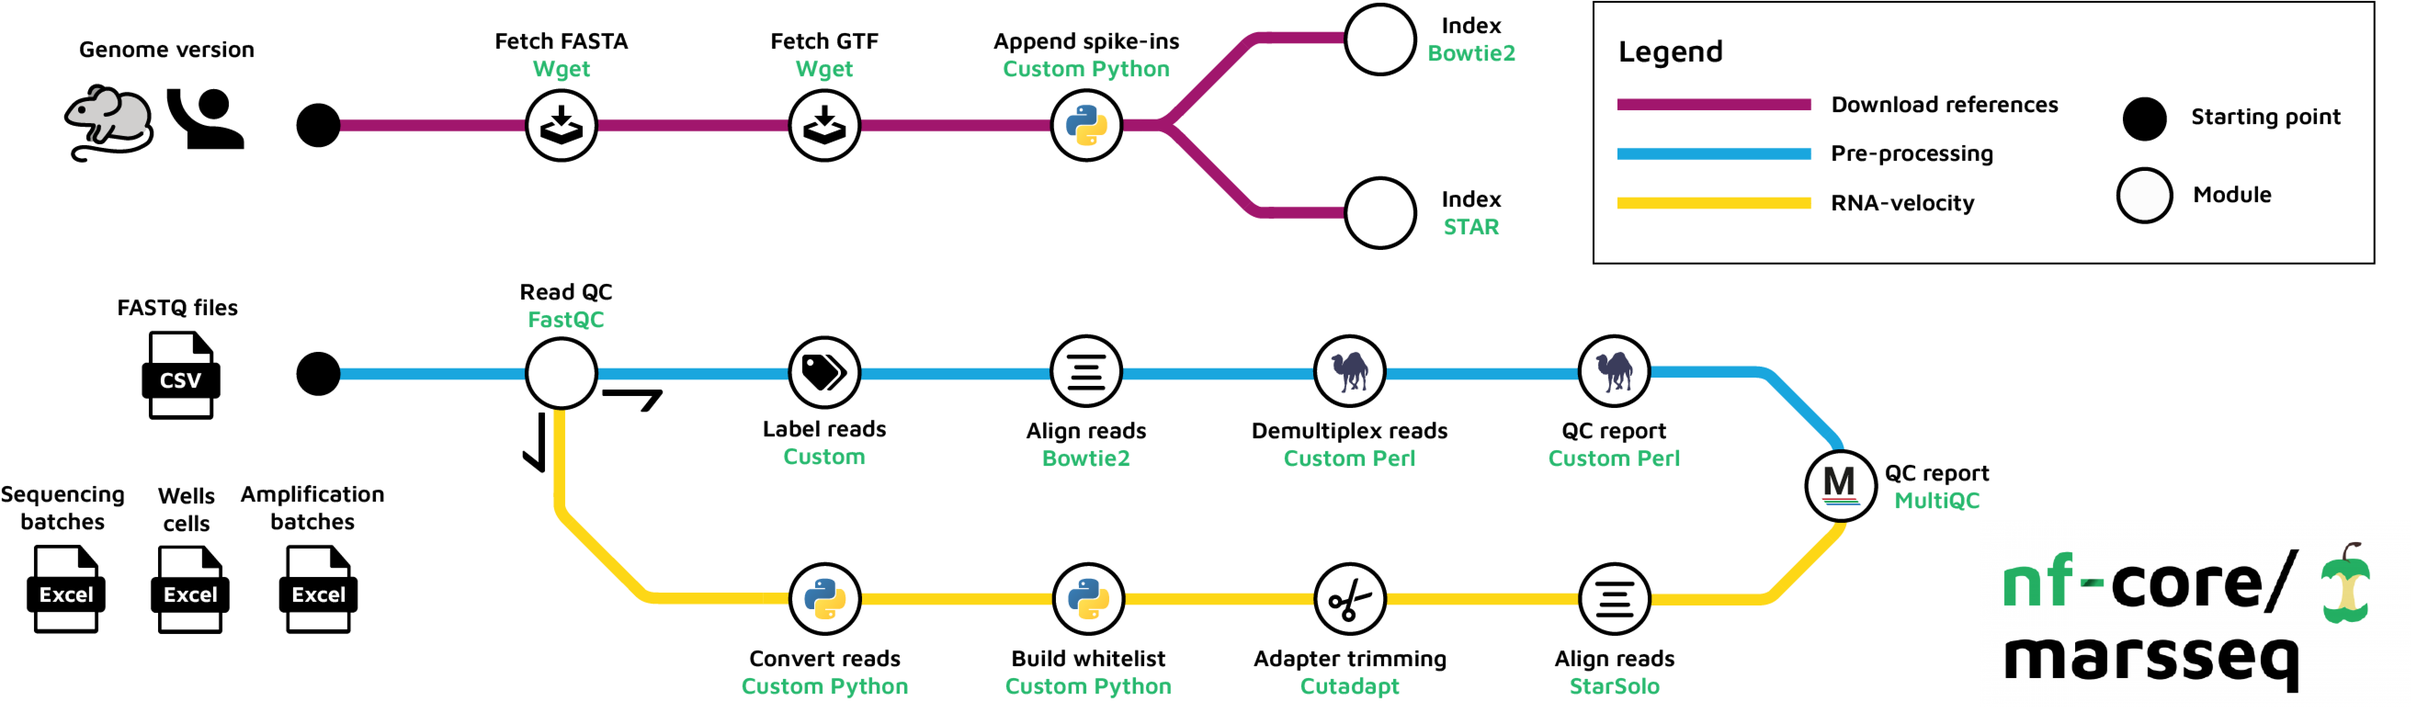
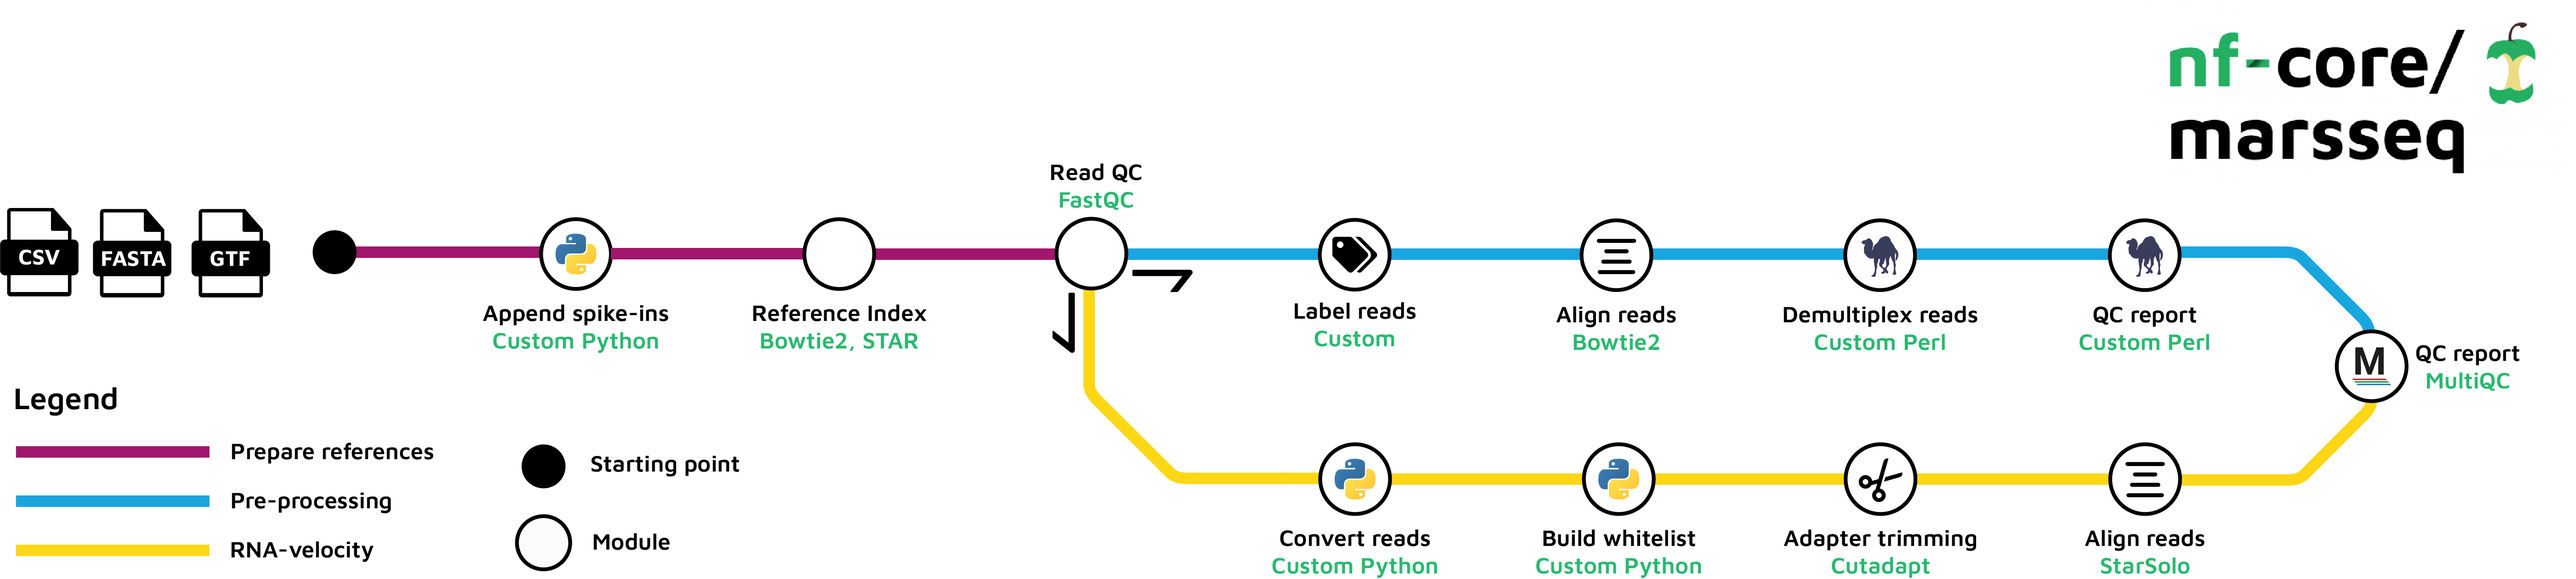
docs: updated workflow and outputs

diff --git a/docs/output.md b/docs/output.md
@@ -10,7 +10,7 @@ The directories listed below will be created in the results directory after the 
 
 The pipeline is built using [Nextflow](https://www.nextflow.io/) and processes data using the following steps:
 
-- [Download and build references](#download-and-build-references) - Build references needer to run the pipeline
+- [Prepare genome](#prepare-genome) - Build references needer to run the pipeline
 - [Prepare pipeline](#prepare-pipeline)
 - [Label reads](#label-reads)
 - [Align reads](#align-preads)
@@ -26,54 +26,34 @@ The pipeline is executed per `Batch` and therefore the folder structure looks li
 
 ```console
 results/
-|-- multiqc
-|-- pipeline_info
-|-- references
-`-- <batch>
+├── multiqc
+├── pipeline_info
+├── references
+└── SB26
+    ├── data
+    ├── fastqc
+    ├── output
+    ├── QC
+    ├── SB26.sam
+    └── velocity
 ```
 
-## Download and build references
+## Prepare genome
 
-<details markdown="1">
-<summary>Output files</summary>
+The pipeline requires ERCC (spike-ins) to be included in the reference genome. To
+accomdate this, the pipeline requires `fasta` and `gtf` reference files. We recommend
+using files from [GENCODE](https://www.gencodegenes.org). Reference indexes are built
+based on set `--aligner` parameter.
 
 ```console
-.
-└── <genome>
-    ├── bowtie2
-    │   ├── <genome>.1.bt2
-    │   ├── <genome>.2.bt2
-    │   ├── <genome>.3.bt2
-    │   ├── <genome>.4.bt2
-    │   ├── <genome>.rev.1.bt2
-    │   └── <genome>.rev.2.bt2
-    ├── <genome>.fa
-    ├── <genome>.gtf
-    ├── star
-    │   ├── chrLength.txt
-    │   ├── chrNameLength.txt
-    │   ├── chrName.txt
-    │   ├── chrStart.txt
-    │   ├── exonGeTrInfo.tab
-    │   ├── exonInfo.tab
-    │   ├── geneInfo.tab
-    │   ├── Genome
-    │   ├── genomeParameters.txt
-    │   ├── Log.out
-    │   ├── SA
-    │   ├── SAindex
-    │   ├── sjdbInfo.txt
-    │   ├── sjdbList.fromGTF.out.tab
-    │   ├── sjdbList.out.tab
-    │   └── transcriptInfo.tab
-    └── versions.yml
+results/references
+├── bowtie2
+├── gencode.vM32.annotation.gtf
+├── GRCm39.primary_assembly.genome_ercc.fa
+├── GRCm39.primary_assembly.genome.fa
+├── star
+└── versions.yml
 ```
-
-</details>
-
-The pipeline downloads references from GENCODE database. This is required, because
-the MARS-seq is using ERCC spike-ins, which have to be appended. Next it builds
-bowtie2 index. If `--velocity` flag is set, star index is also built.
 
 ## Prepare pipeline
 
@@ -85,7 +65,6 @@ bowtie2 index. If `--velocity` flag is set, star index is also built.
   - `gene_intervals.txt`: Information about gene (chromosome, start, end, strand and symbol)
   - `seq_batches.txt`: Sequencing batches
   - `wells_cells.txt`: Well cells
-  - `*fastq.gz`: Raw reads
 
 </details>
 
@@ -121,11 +100,11 @@ folder.
 Split reads are aligned using `bowtie2`. Next, all the aligned reads are merged
 into one `SAM` file which is used as an input for demultiplexing.
 
-If `--velocity` flag is set, the reads are also aligned using `StarSolo` to estimated
-both spliced and unspliced reads which can be used for RNA velocity estimation.
-This is an additional plugin which we developed. In short MARS-seq2.0 reads are
-converted to `10X v2` format. Additionally, a whitelist is generated for aligned
-to perform demultiplexing.
+If `--aligner` flag is set to `bowtie2_star` or `star`, the reads are also aligned
+using `StarSolo` to estimated both spliced and unspliced reads which can be used
+for RNA velocity estimation. This is an additional plugin which we developed.
+In short MARS-seq2.0 reads are converted to `10X v2` format. Additionally, a
+whitelist is generated for aligned to perform demultiplexing.
 
 <details markdown="1">
 <summary>Output files</summary>
@@ -133,13 +112,11 @@ to perform demultiplexing.
 - `<batch>`
   - `<batch>.sam`: Merged aligned reads into one SAM file with `bowtie2`
   - `velocity/`
-    - `Solo.out/*`: Output from StarSolo (Gene, GeneFull, SJ, Velocyto and Barcode.stats)
-    - `Aligned.sortedByCoord.out.bam`: Aligned reads
-    - `Log.final.out`: STAR alignment report containing the mapping results summary
-    - `Log.out` and `Log.progress.out`: STAR log files containing detailed information about the run. Typically only useful for debugging purposes
-    - `<batch>.cutadapt.log`: Log file from running `cutadapt`
     - `<batch>_{1,2}.trim.fastq.gz`: Trimmed pair-end converted `10X v2` reads
-    - `SJ.out.tab`: File containing filtered splice junctions detected after mapping the reads
+    - `<batch>.cutadapt.log`: Log file from running `cutadapt`
+    - `<batch>.Log.final.out`: STAR alignment report containing the mapping results summary
+    - `<batch>.Log.out` and `<batch>.Log.progress.out`: STAR log files containing detailed information about the run. Typically only useful for debugging purposes
+    - `<batch>.Solo.out/*`: Output from StarSolo (Gene, GeneFull, SJ, Velocyto and Barcode.stats)
     - `whitelist.txt`: File containing cell barcodes (combination of pool and cell barcode)
 
 </details>

diff --git a/README.md b/README.md
@@ -36,23 +36,13 @@ To run the pipeline you have create experiment metadata files:
 
 and samplesheet (`samplesheet.csv`). We provide test example [here](assets/samplesheet.csv).
 
-Next, you have to generate genome references to incorporate ERCC spike-ins. References are downloaded from [GENCODE](https://www.gencodegenes.org) database.
-
-```bash
-nextflow run nf-core/marsseq \
-  -profile <docker/singularity/.../institute> \
-  --genome <mm10,mm9,GRCh38_v43> \
-  --build_references \
-  --input samplsheet.csv \
-  --outdir <OUTDIR>
-```
-
 Now, you can run the pipeline using:
 
 ```bash
 nextflow run nf-core/marsseq \
   -profile <docker/singularity/.../institute> \
-  --genome <mm10,mm9,GRCh38_v43> \
+  --fasta https://ftp.ebi.ac.uk/pub/databases/gencode/Gencode_mouse/release_M32/GRCm39.primary_assembly.genome.fa.gz \
+  --gtf https://ftp.ebi.ac.uk/pub/databases/gencode/Gencode_mouse/release_M32/gencode.vM32.annotation.gtf.gz \
   --input samplesheet.csv \
   --outdir <OUTDIR>
 ```

diff --git a/docs/usage.md b/docs/usage.md
@@ -59,7 +59,7 @@ An [example samplesheet](../assets/samplesheet.csv) has been provided with the p
 The typical command for running the pipeline is as follows:
 
 ```bash
-nextflow run nf-core/marsseq --input ./samplesheet.csv --outdir ./results --genome GRCh37 -profile docker
+nextflow run nf-core/marsseq --input ./samplesheet.csv --outdir ./results --fasta genome.fasta --gtf annotation.gtf -profile docker
 ```
 
 This will launch the pipeline with the `docker` configuration profile. See below for more information about profiles.
@@ -92,7 +92,8 @@ with:
 ```yaml title="params.yaml"
 input: './samplesheet.csv'
 outdir: './results/'
-genome: 'GRCh37'
+fasta: 'genome.fasta'
+gtf: 'annotation.gtf'
 <...>
 ```
 
